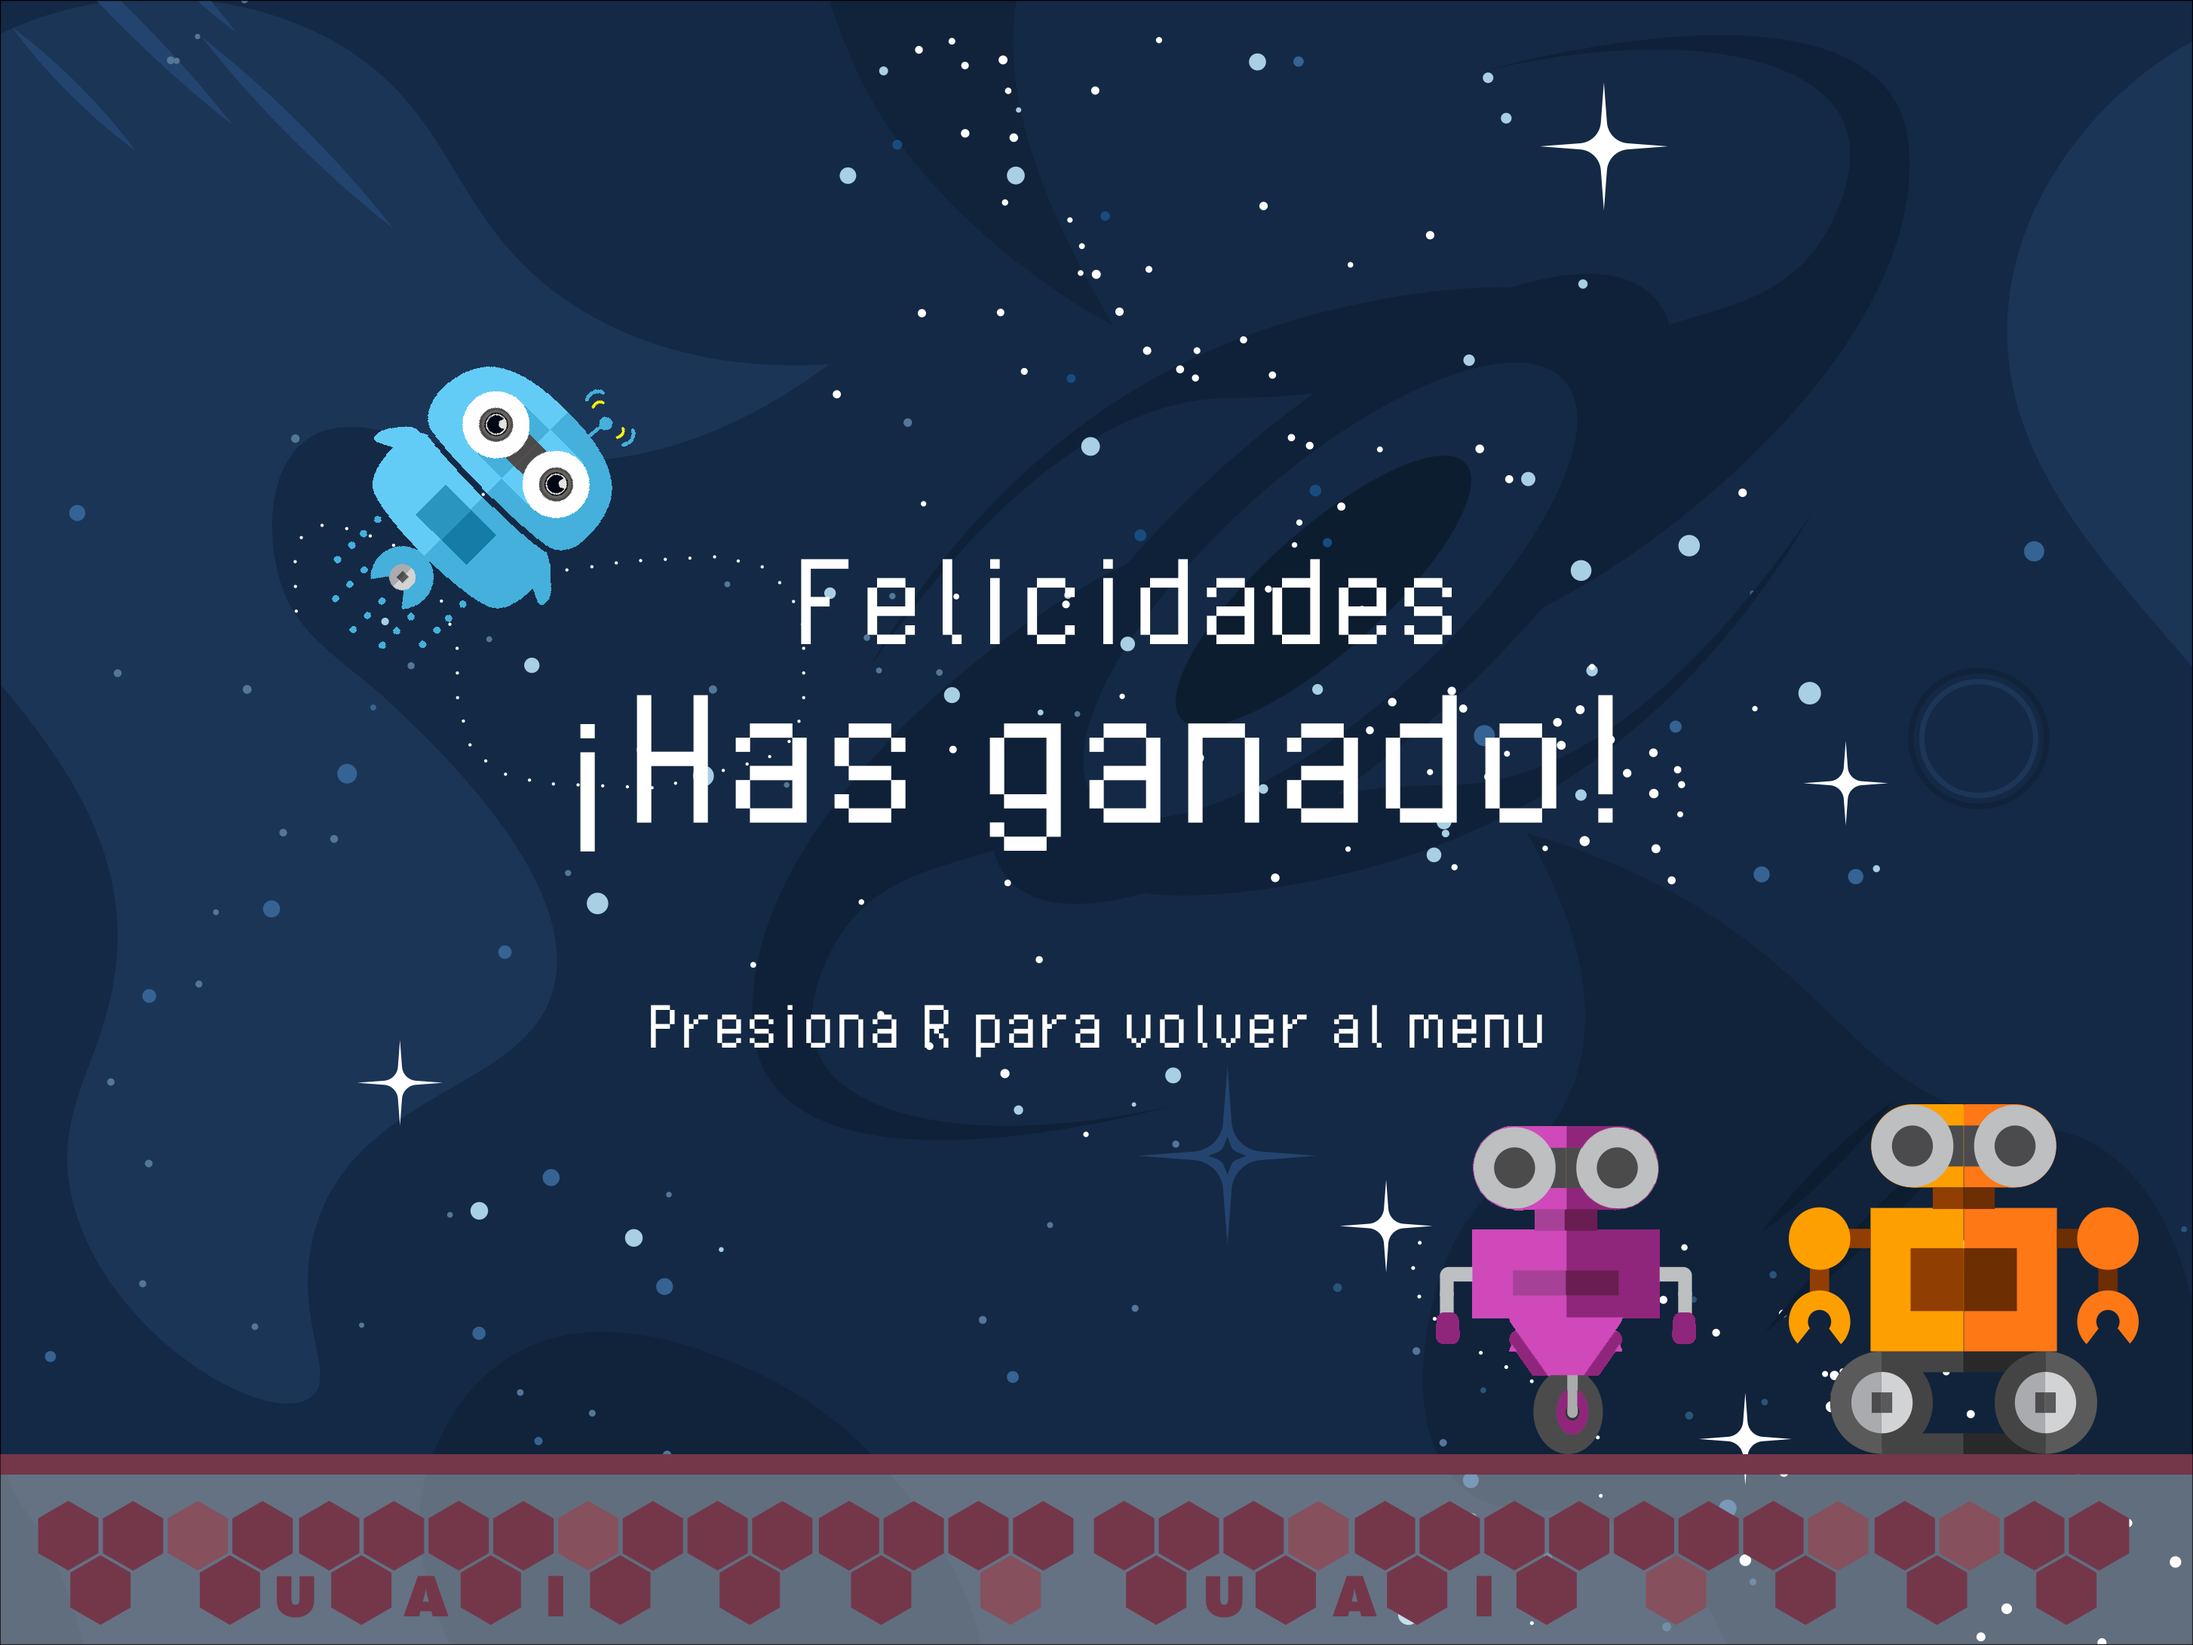
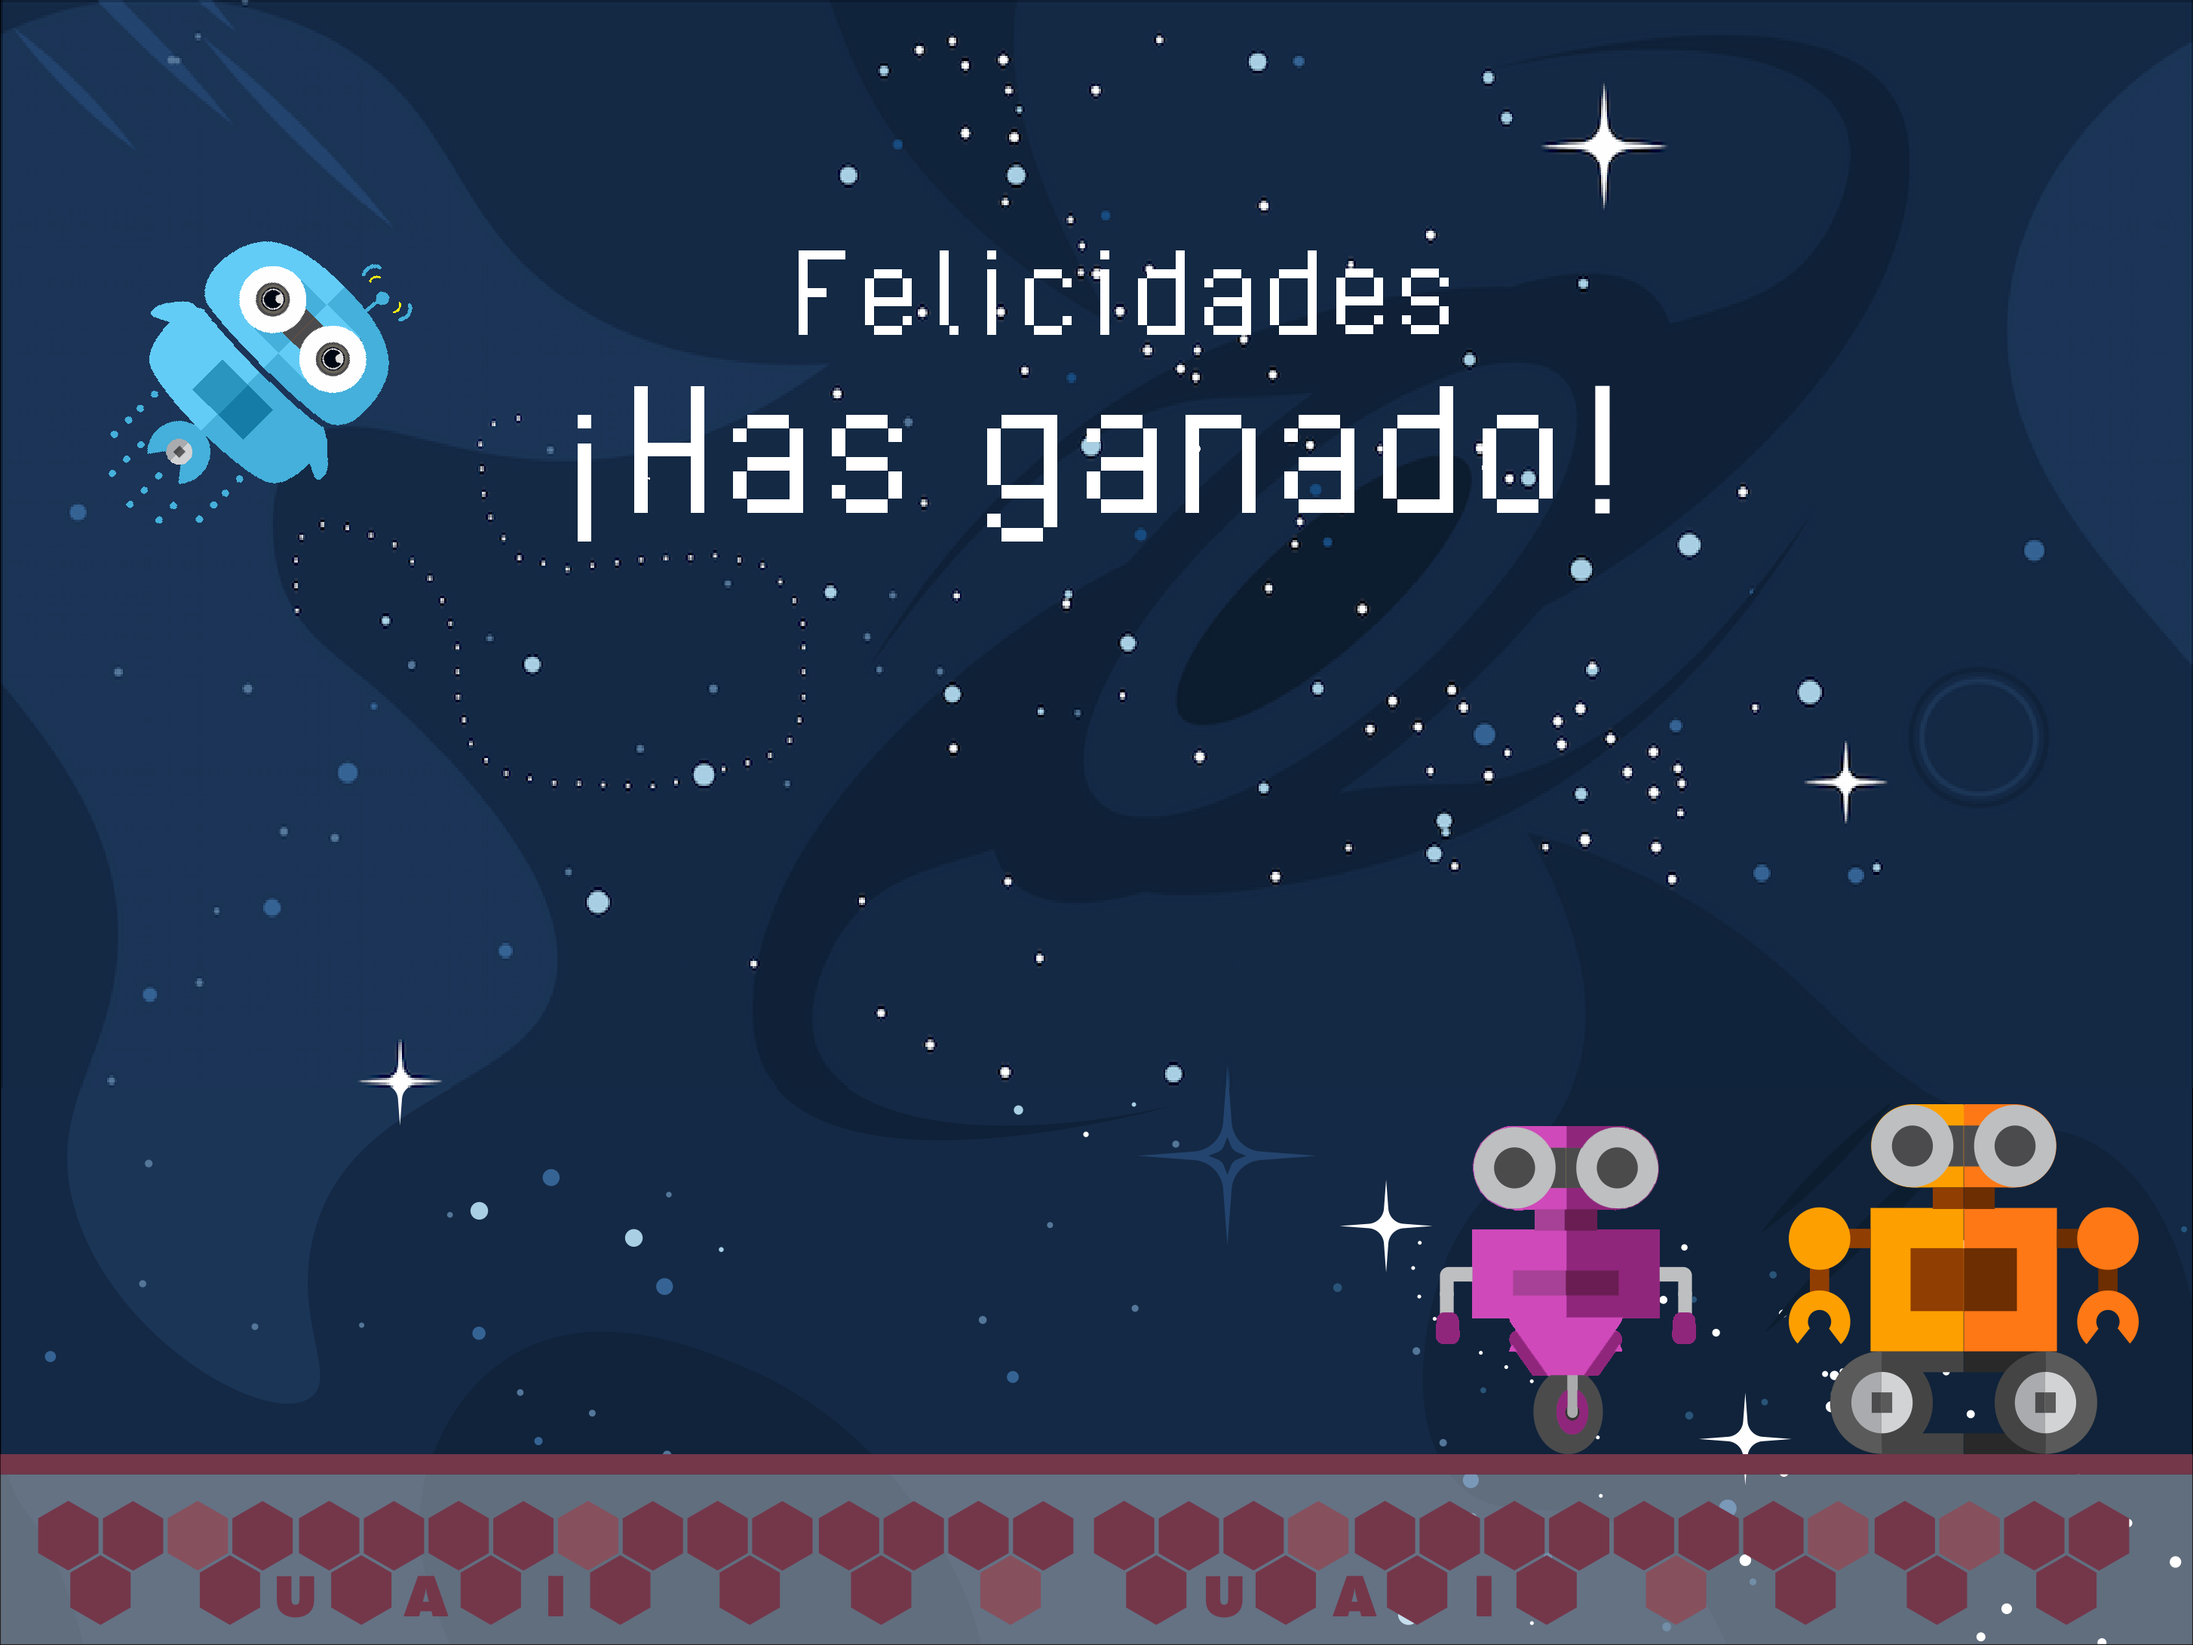
Added new sprites, TODO resize (v2.7.3)

diff --git a/scripts/texturedata.py b/scripts/texturedata.py
@@ -43,6 +43,7 @@ _TEXTURE_DATA = {
     "press_any_black": {"file_path": "res/rules/pressany_black.png", "size": (450, 50)},
     "press_any_white": {"file_path": "res/rules/pressany_white.png", "size": (450, 50)},
     "wandering_virus_rules": {"file_path": "res/rules/wandering_virus_rules.png", "size": (600, 90)},
+    "r_return": {"file_path": "res/rules/r_to_go_back.png", "size": (590, 35)},
     
     # menu
     "easy_button": {"file_path": "res/menu/button_easy.png", "size": (TILE_SIZE*4, TILE_SIZE*2)},

diff --git a/scripts/scene.py b/scripts/scene.py
@@ -238,6 +238,9 @@ class Scene(object):
         """Renderiza en pantalla el mensaje de haber ganado."""
         self.screen.blit(
             TEXTURES["win"], (0, 0, SCREEN_WIDTH, SCREEN_HEIGHT))
+        self.screen.blit(
+            TEXTURES["r_return"], (SCREEN_WIDTH // 2 - 590 // 2, SCREEN_HEIGHT // 2 + 200 - m.sin(pygame.time.get_ticks() / 100) * 10)
+        )
 
     # endregion
 

diff --git a/scripts/main.py b/scripts/main.py
@@ -4,7 +4,7 @@ RONDA 2
 
 Crea el juego (mainloop) e inicializa el módulo pygame.
 
-Versión 2.7.2
+Versión 2.7.3
 Estándar de estilo utilizado: PEP8 (https://peps.python.org/pep-0008/)."""
 
 import sys
